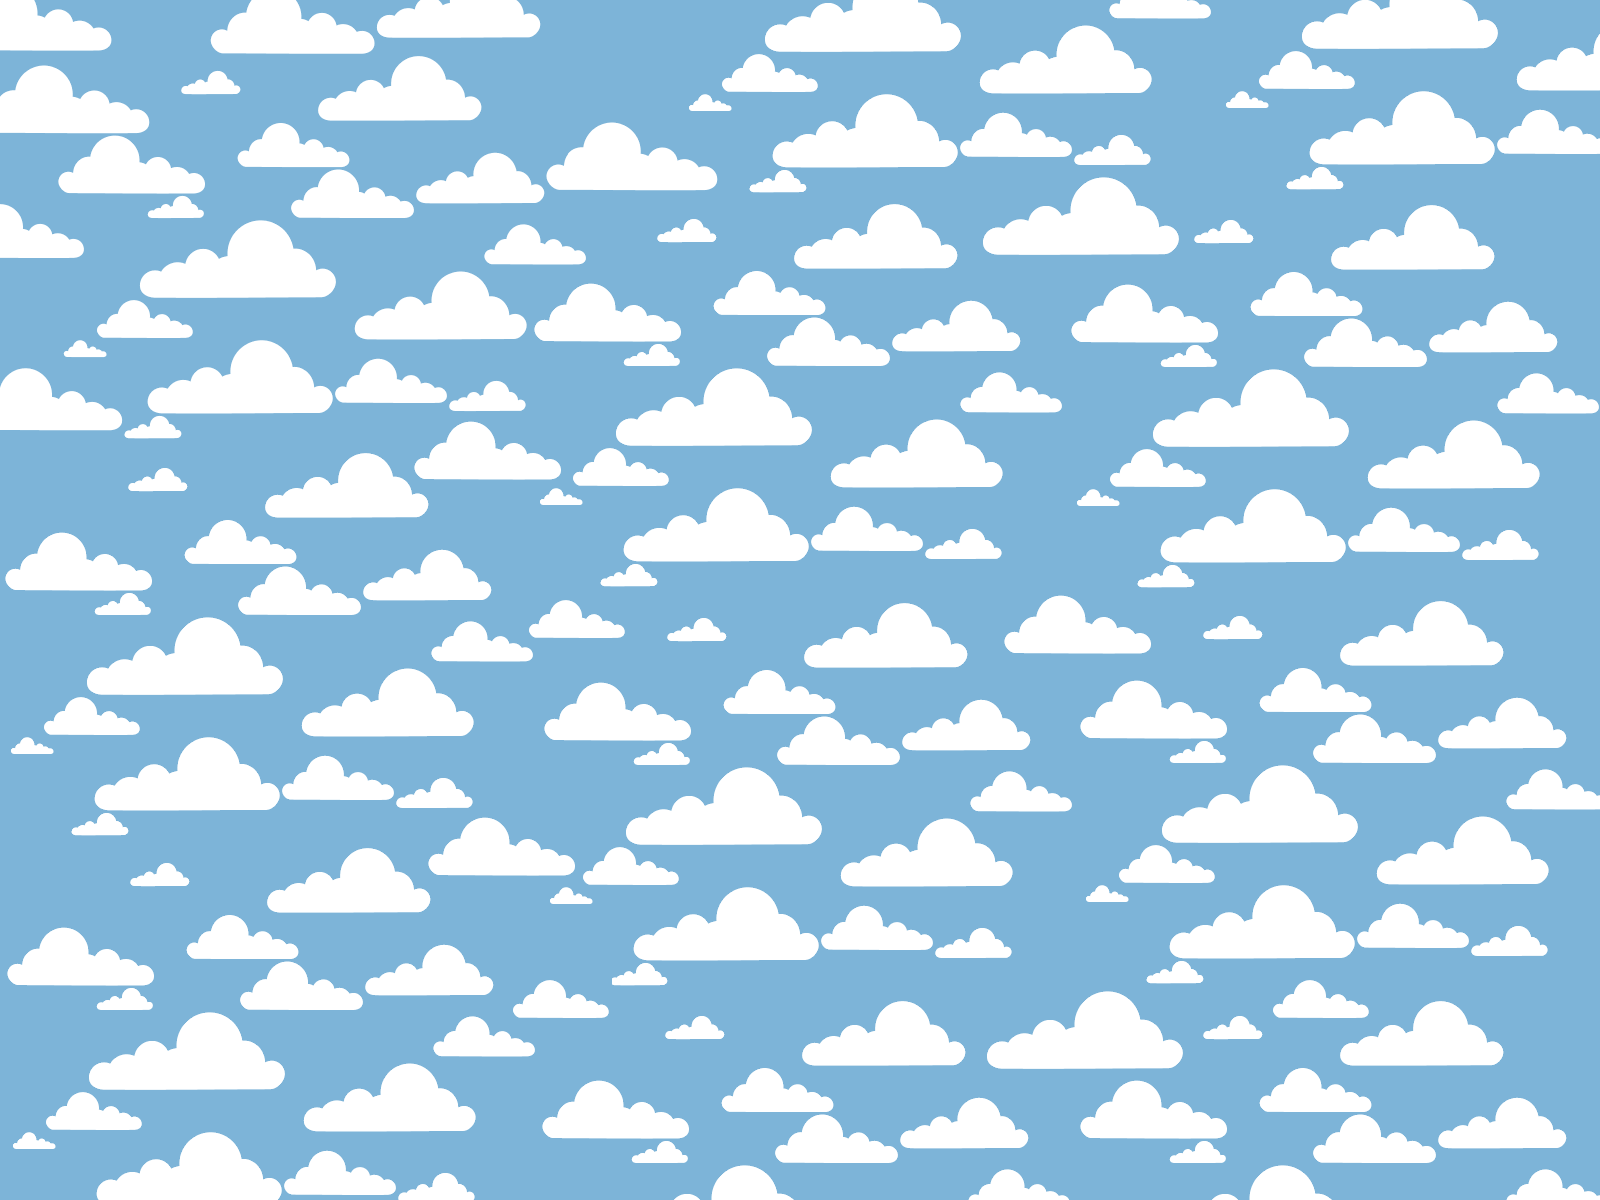
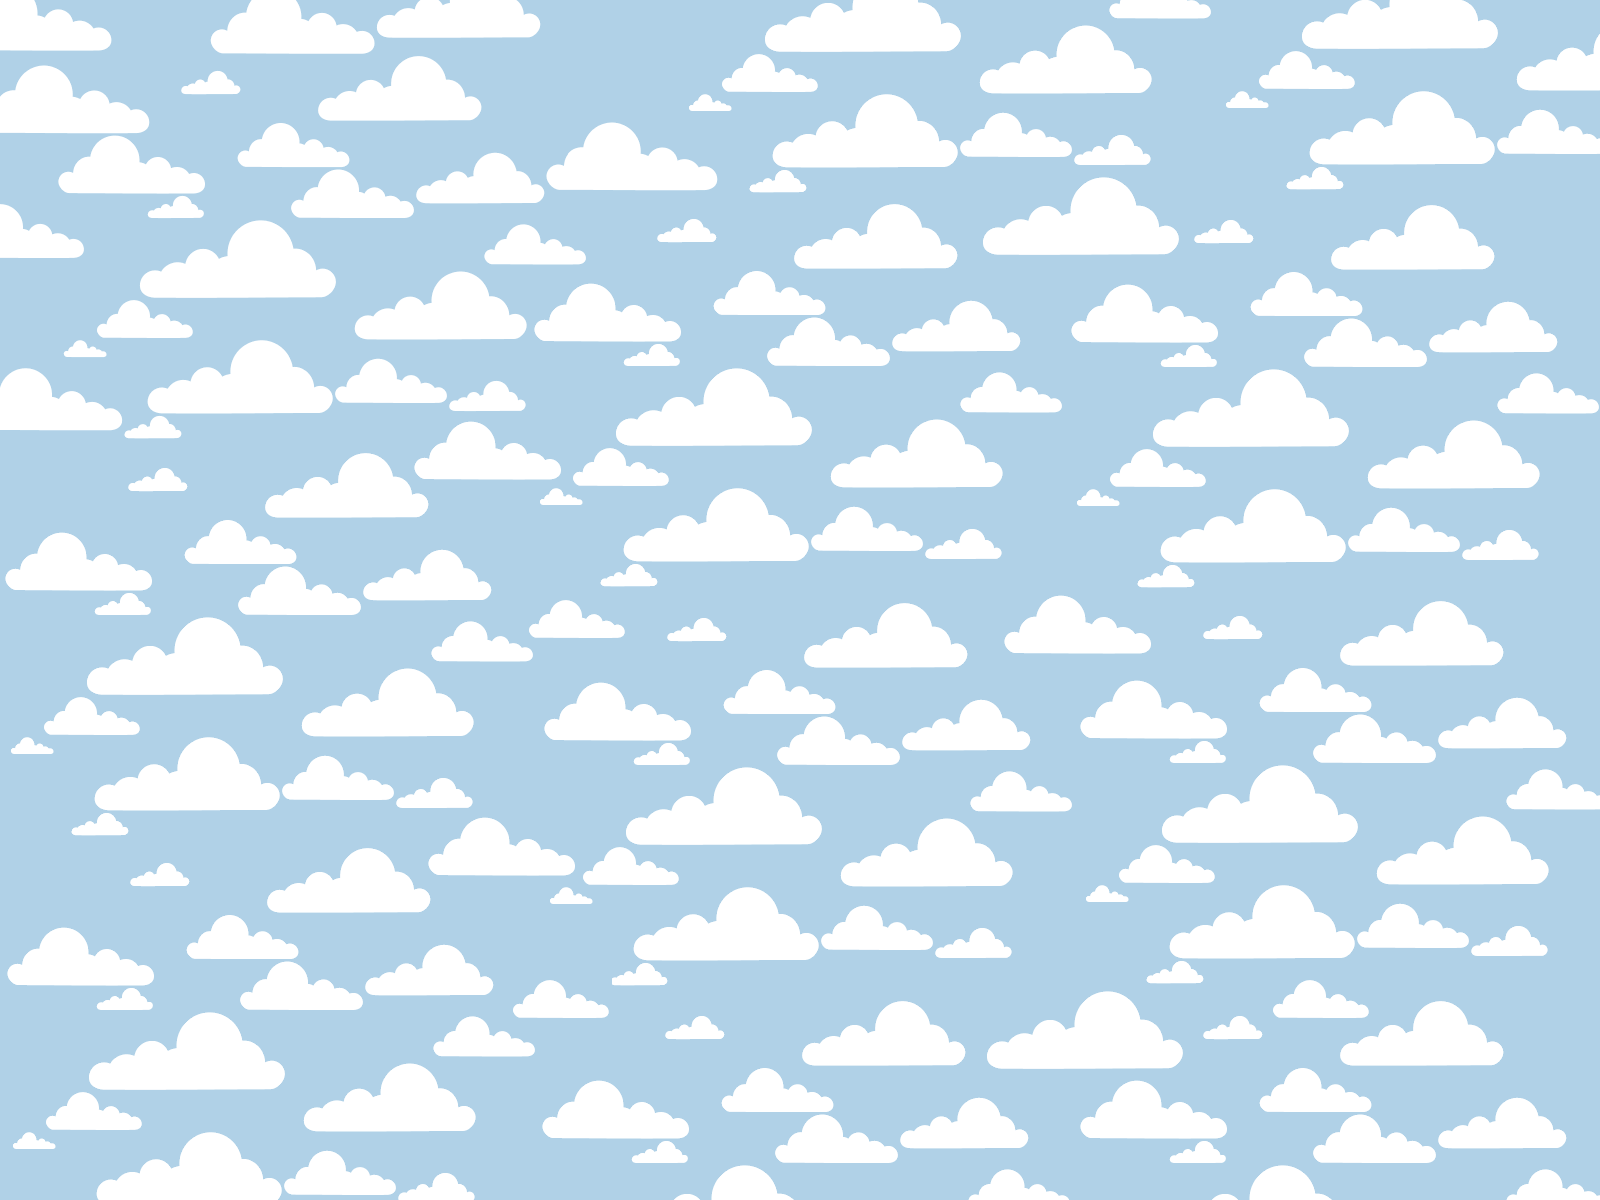
image thingy

diff --git a/index.html b/index.html
@@ -9,7 +9,7 @@
 	<title>Bautismo Luis Eduardo</title>
 	<link rel="stylesheet" type="text/css" href="framework/css/style.css">
 </head>
-<body style="position:static" background="images/fondo.png">
+<body style="position:static" background="images/fondoclaro.png">
 	<img class="image" src="images/0angelito.png">
 </img>
 	<h1>
